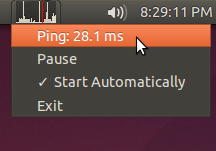
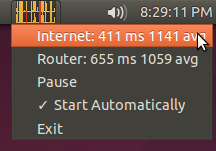
Updating screenshot

diff --git a/README.md b/README.md
@@ -1,3 +1,5 @@
+ ![Screenshot](https://github.com/zyphlar/pinger/raw/master/pinger.png)
+
 Pinger.py
 =========
 A ping tool that sits in your system tray
